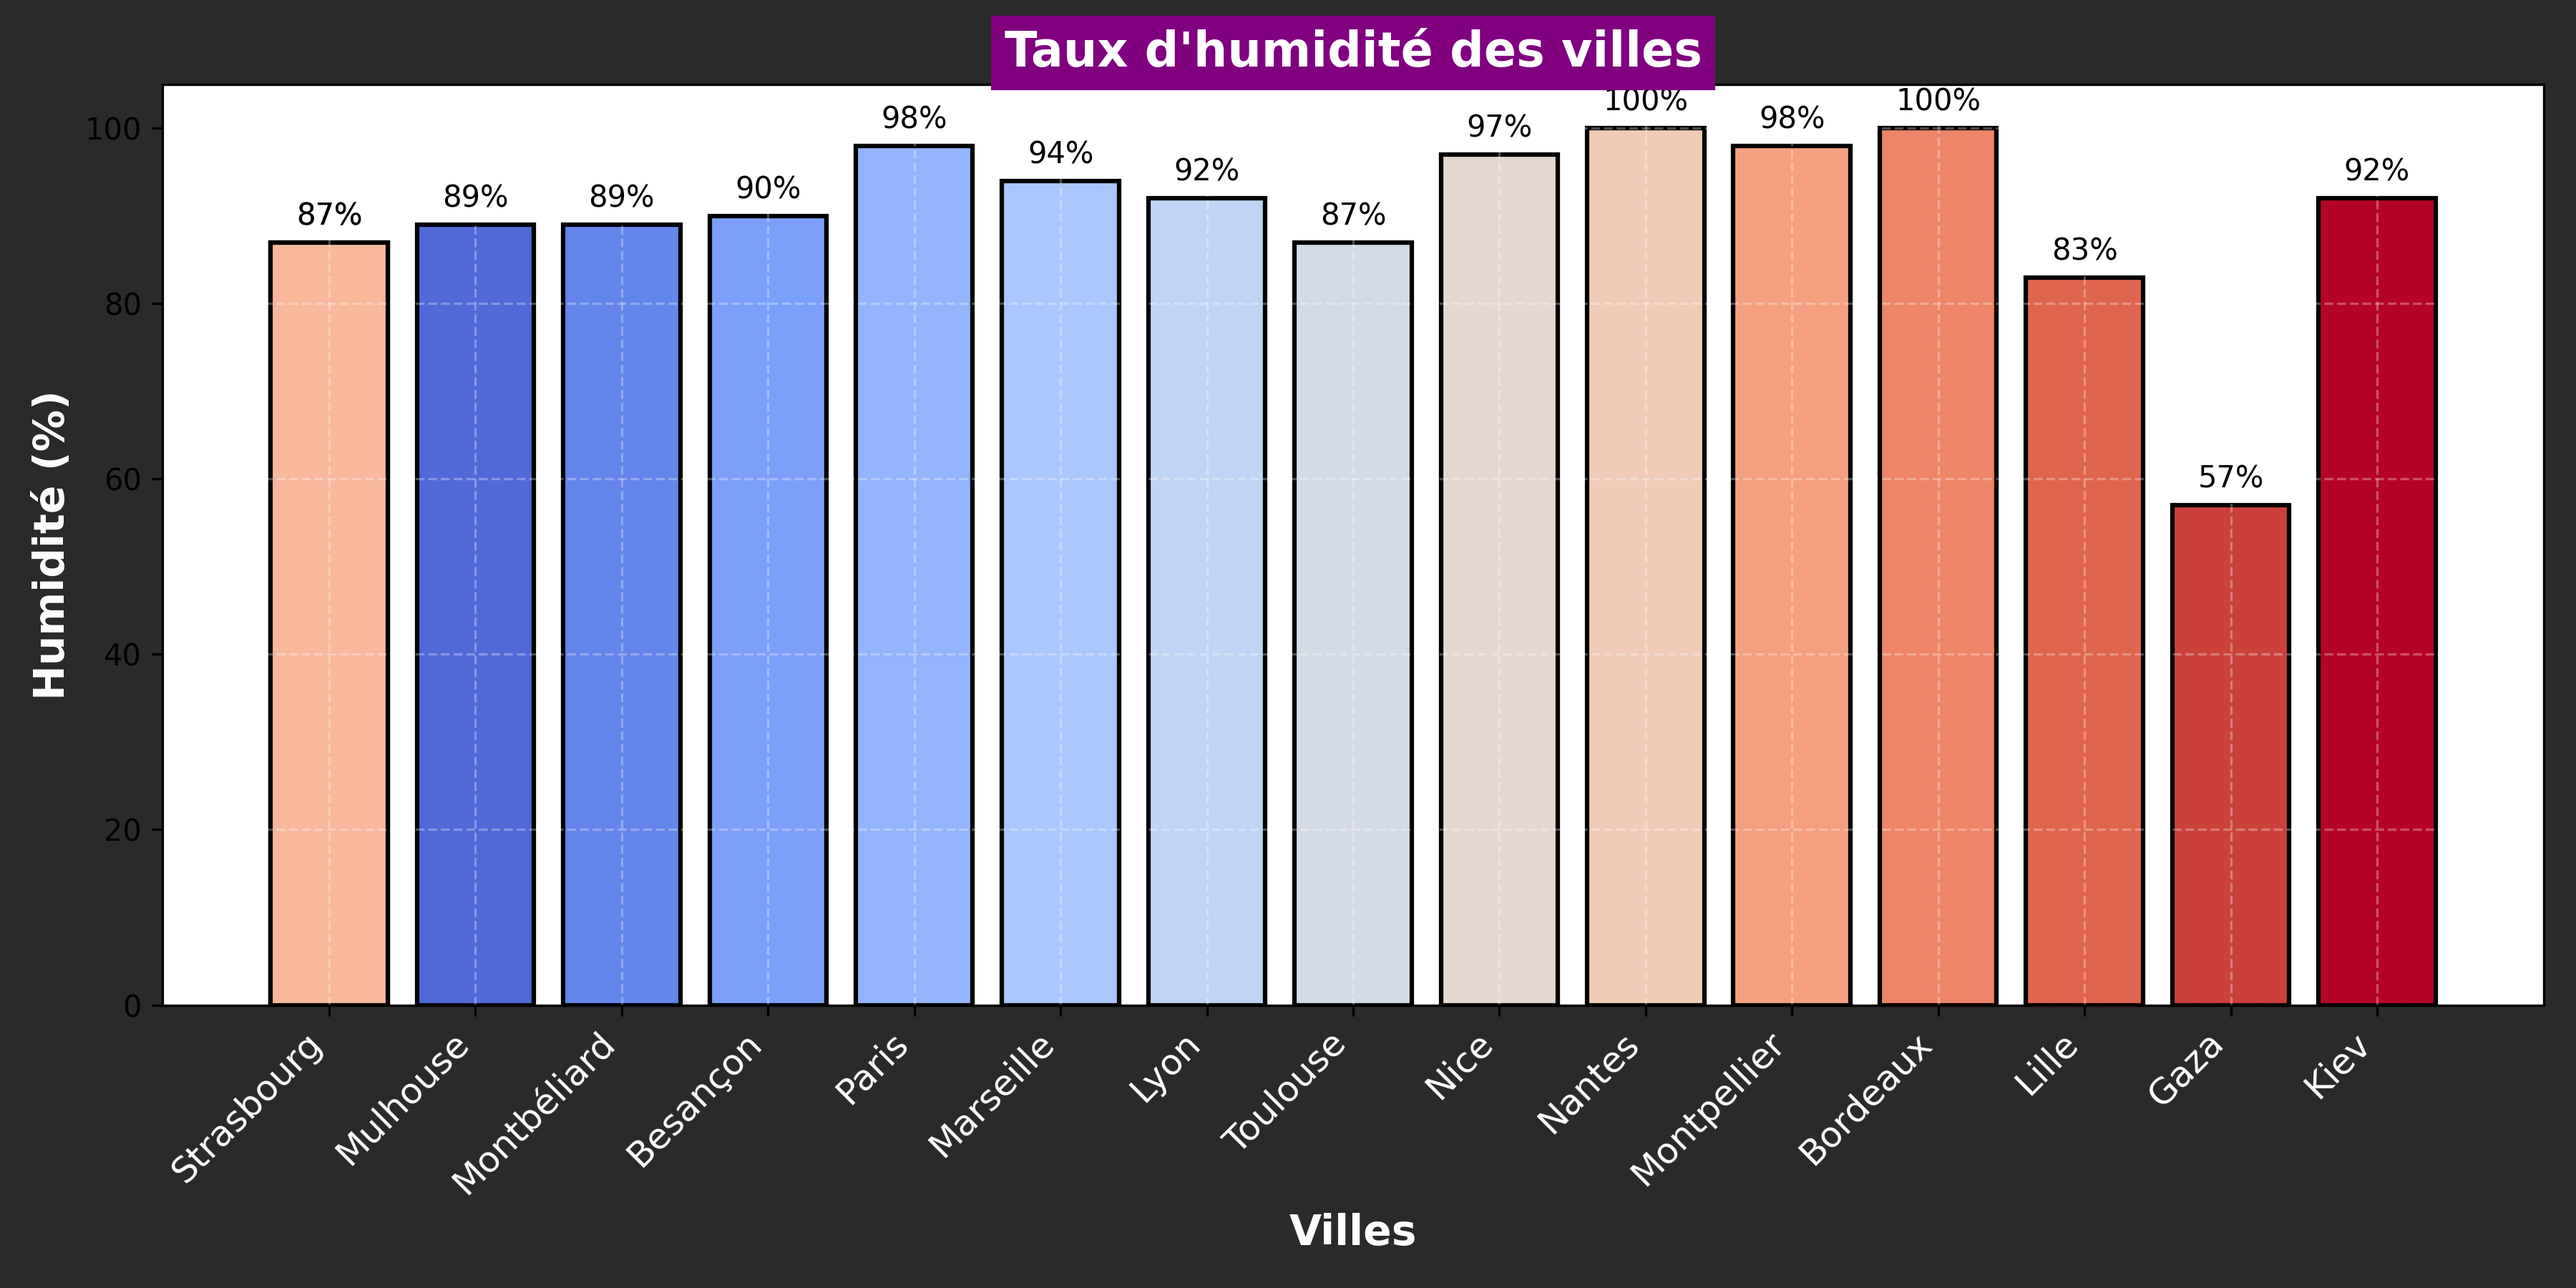
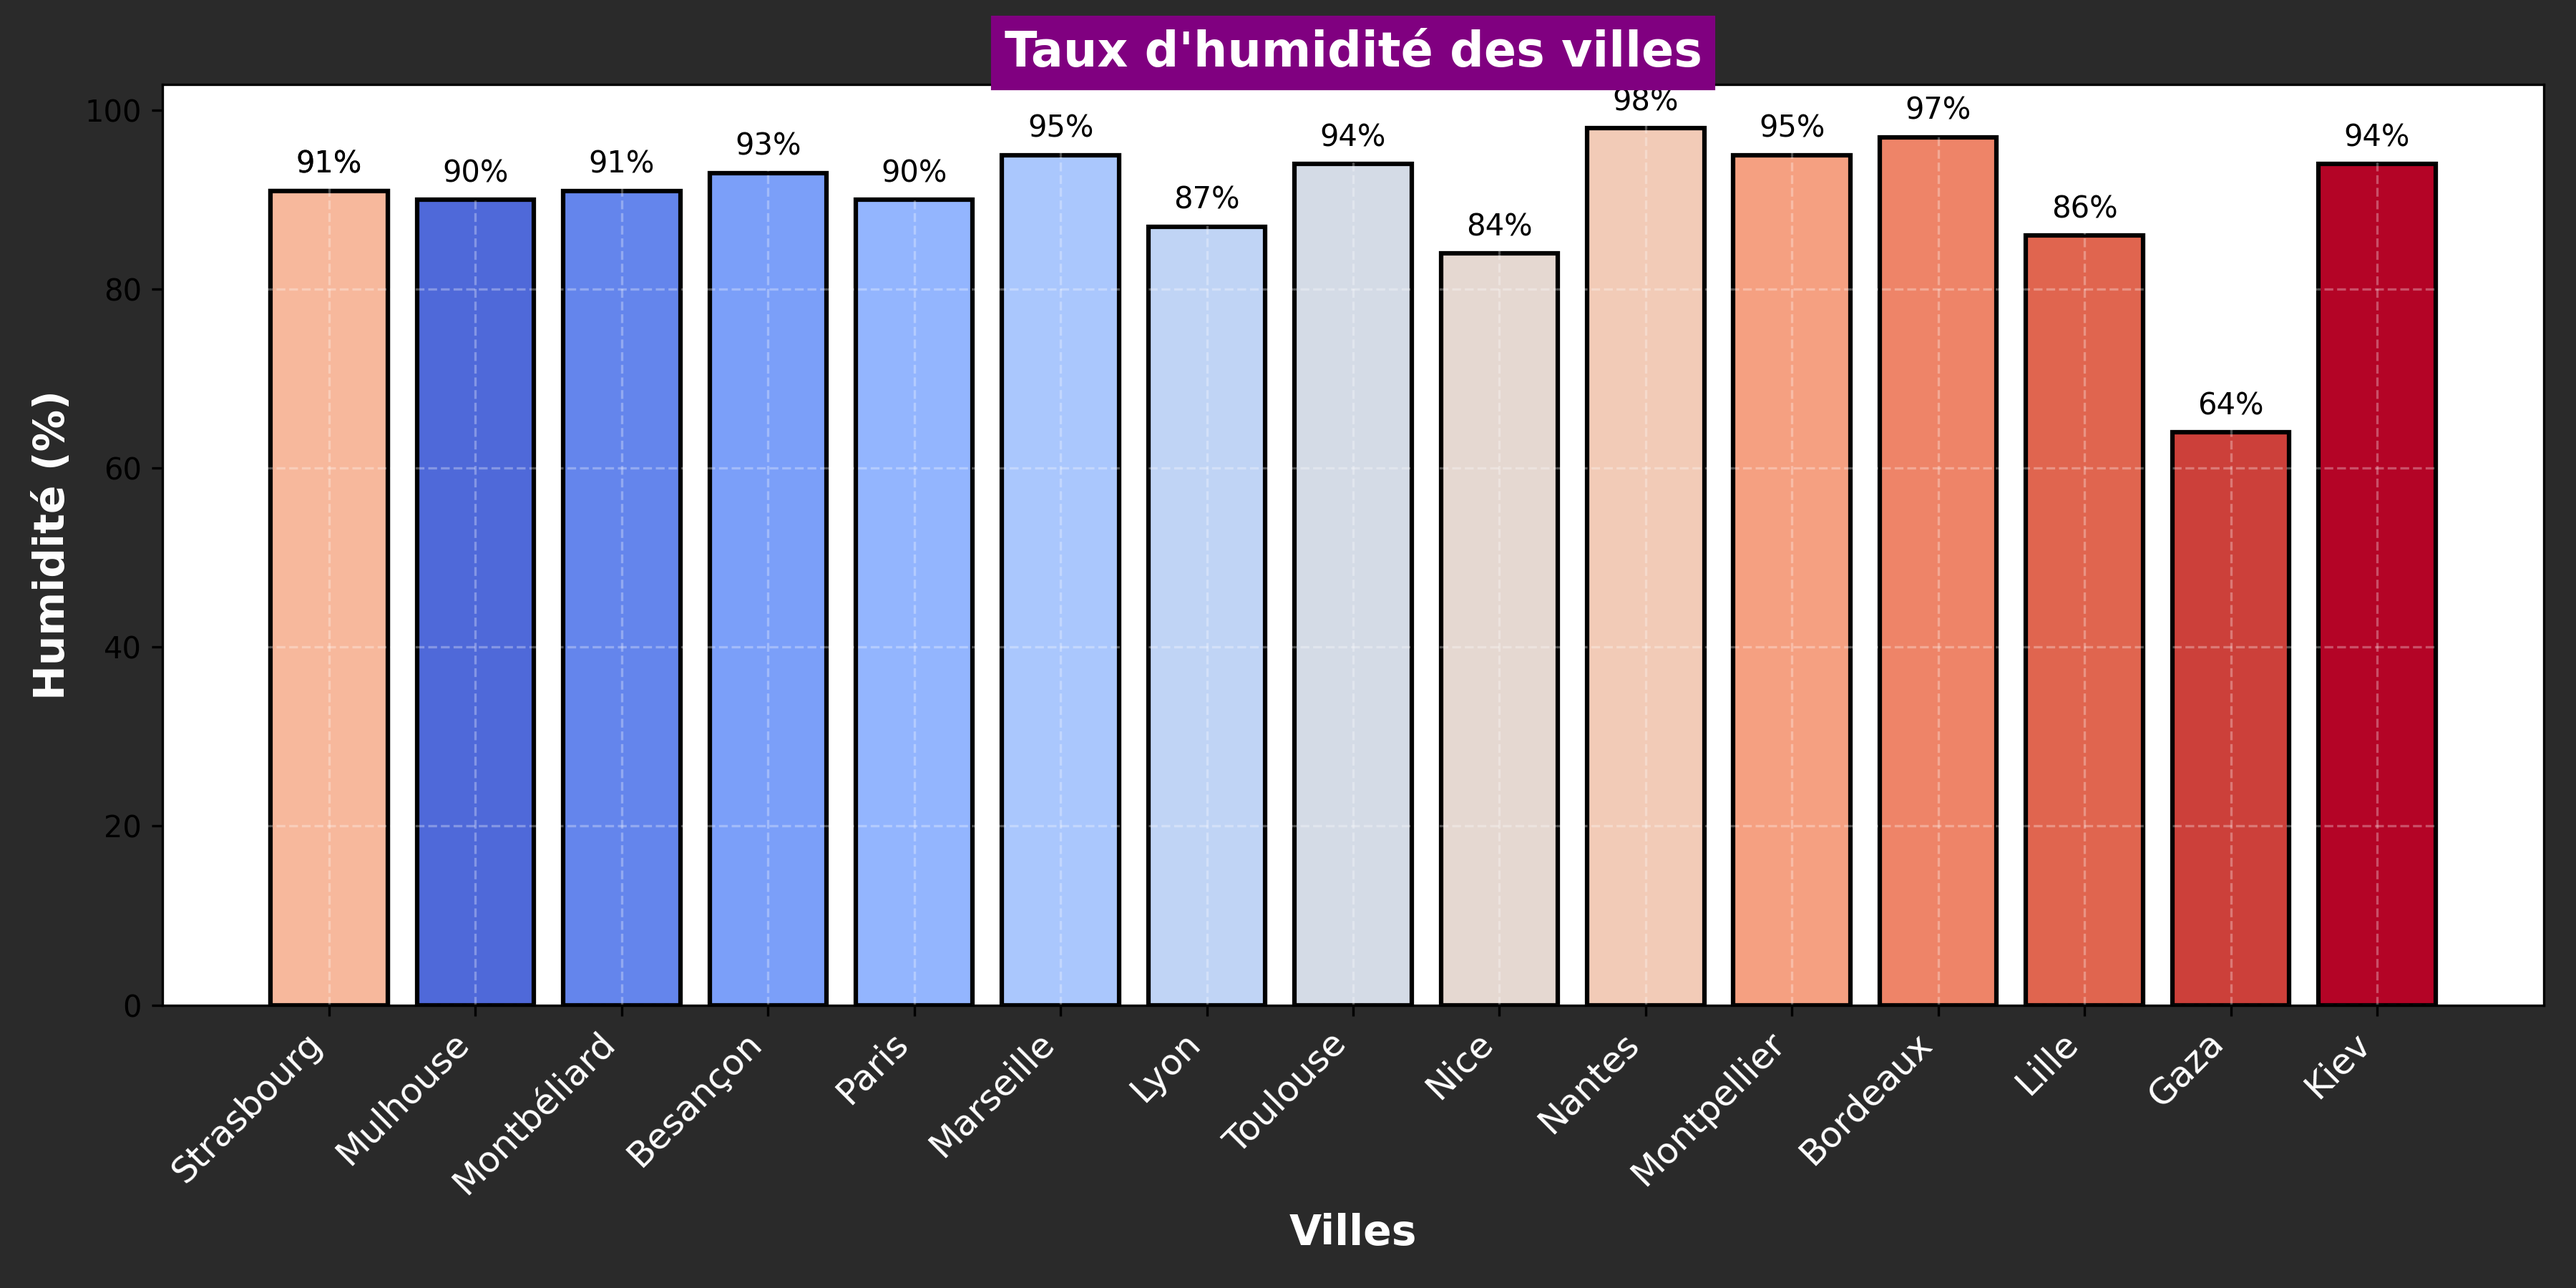
Mise à jour de la météo et ajout du graphique d'humidité

diff --git a/README.md b/README.md
@@ -24,103 +24,103 @@ Ce repo contient plusieurs workflows GitHub Actions :
 ## Météo actuelle :
 ## Météo des grandes villes + Gaza et Kiev 🌍
 
-🕒 Mise à jour : 24/03/2025 07:17:00
+🕒 Mise à jour : 25/03/2025 07:16:51
 
-### 🌍 Strasbourg 🌥
-**Conditions :** nuageux
-**Température :** 7.04°C
-**Humidité :** 87%
+### 🌍 Strasbourg ☀
+**Conditions :** ciel dégagé
+**Température :** 8.37°C
+**Humidité :** 91%
 **Vent :** 1.54 m/s
 
-### 🌍 Mulhouse 🌥
-**Conditions :** couvert
-**Température :** 9.17°C
-**Humidité :** 89%
-**Vent :** 1.54 m/s
-
-### 🌍 Montbéliard 🌥
-**Conditions :** couvert
-**Température :** 8.88°C
-**Humidité :** 89%
-**Vent :** 1.06 m/s
-
-### 🌍 Besançon 🌥
-**Conditions :** couvert
-**Température :** 5.5°C
+### 🌍 Mulhouse 🌫
+**Conditions :** brume
+**Température :** 8.12°C
 **Humidité :** 90%
-**Vent :** 1.01 m/s
-
-### 🌍 Paris 🌫
-**Conditions :** brouillard
-**Température :** 7.61°C
-**Humidité :** 98%
 **Vent :** 1.03 m/s
 
+### 🌍 Montbéliard 🌥
+**Conditions :** peu nuageux
+**Température :** 7.39°C
+**Humidité :** 91%
+**Vent :** 0.55 m/s
+
+### 🌍 Besançon 🌥
+**Conditions :** peu nuageux
+**Température :** 5.62°C
+**Humidité :** 93%
+**Vent :** 0.62 m/s
+
+### 🌍 Paris 🌫
+**Conditions :** brume
+**Température :** 7.36°C
+**Humidité :** 90%
+**Vent :** 4.63 m/s
+
 ### 🌍 Marseille 🌥
-**Conditions :** nuageux
-**Température :** 5.93°C
-**Humidité :** 94%
-**Vent :** 2.28 m/s
+**Conditions :** partiellement nuageux
+**Température :** 6.16°C
+**Humidité :** 95%
+**Vent :** 1.44 m/s
 
 ### 🌍 Lyon 🌥
-**Conditions :** couvert
-**Température :** 4°C
-**Humidité :** 92%
-**Vent :** 0.85 m/s
+**Conditions :** nuageux
+**Température :** 6.56°C
+**Humidité :** 87%
+**Vent :** 1.2 m/s
 
 ### 🌍 Toulouse 🌥
 **Conditions :** couvert
-**Température :** 8.99°C
-**Humidité :** 87%
-**Vent :** 1.54 m/s
+**Température :** 8.26°C
+**Humidité :** 94%
+**Vent :** 4.12 m/s
 
 ### 🌍 Nice 🌥
 **Conditions :** couvert
-**Température :** 4.16°C
-**Humidité :** 97%
-**Vent :** 0.47 m/s
+**Température :** -1.64°C
+**Humidité :** 84%
+**Vent :** 2.8 m/s
 
-### 🌍 Nantes 🌥
-**Conditions :** couvert
-**Température :** 9.96°C
-**Humidité :** 100%
-**Vent :** 3.09 m/s
-
-### 🌍 Strasbourg 🌥
-**Conditions :** nuageux
-**Température :** 7.04°C
-**Humidité :** 87%
+### 🌍 Nantes 🌫
+**Conditions :** brume
+**Température :** 6.19°C
+**Humidité :** 98%
 **Vent :** 1.54 m/s
 
-### 🌍 Montpellier 🌧
-**Conditions :** pluie modérée
-**Température :** 9.16°C
-**Humidité :** 98%
+### 🌍 Strasbourg ☀
+**Conditions :** ciel dégagé
+**Température :** 8.37°C
+**Humidité :** 91%
+**Vent :** 1.54 m/s
+
+### 🌍 Montpellier ☀
+**Conditions :** ciel dégagé
+**Température :** 8.28°C
+**Humidité :** 95%
 **Vent :** 2.06 m/s
 
-### 🌍 Bordeaux 🌫
-**Conditions :** brume
-**Température :** 9.15°C
-**Humidité :** 100%
-**Vent :** 3.09 m/s
+### 🌍 Bordeaux 🌥
+**Conditions :** peu nuageux
+**Température :** 6.82°C
+**Humidité :** 97%
+**Vent :** 1.03 m/s
 
-### 🌍 Lille ☀
-**Conditions :** ciel dégagé
-**Température :** 8°C
-**Humidité :** 83%
-**Vent :** 2.06 m/s
+### 🌍 Lille 🌫
+**Conditions :** brouillard
+**Température :** 5.21°C
+**Humidité :** 86%
+**Vent :** 2.57 m/s
 
-### 🌍 Gaza ☀
-**Conditions :** ciel dégagé
-**Température :** 14.76°C
-**Humidité :** 57%
-**Vent :** 3.33 m/s
+### 🌍 Gaza 🌥
+**Conditions :** peu nuageux
+**Température :** 18.51°C
+**Humidité :** 64%
+**Vent :** 3.19 m/s
 
-### 🌍 Kiev 🌧
-**Conditions :** légère pluie
-**Température :** 5.4°C
-**Humidité :** 92%
-**Vent :** 0.89 m/s
+### 🌍 Kiev 🌥
+**Conditions :** couvert
+**Température :** 6.81°C
+**Humidité :** 94%
+**Vent :** 2.98 m/s
 
 <p align='center'><img src='https://raw.githubusercontent.com/khoa083/khoa/main/Khoa_ne/img/Rainbow.gif' width='100%' style='border-radius: 5px; border: 3px solid #39FF14; box-shadow: 0 0 10px #39FF14, 0 0 20px #39FF14;' /></p>
 
